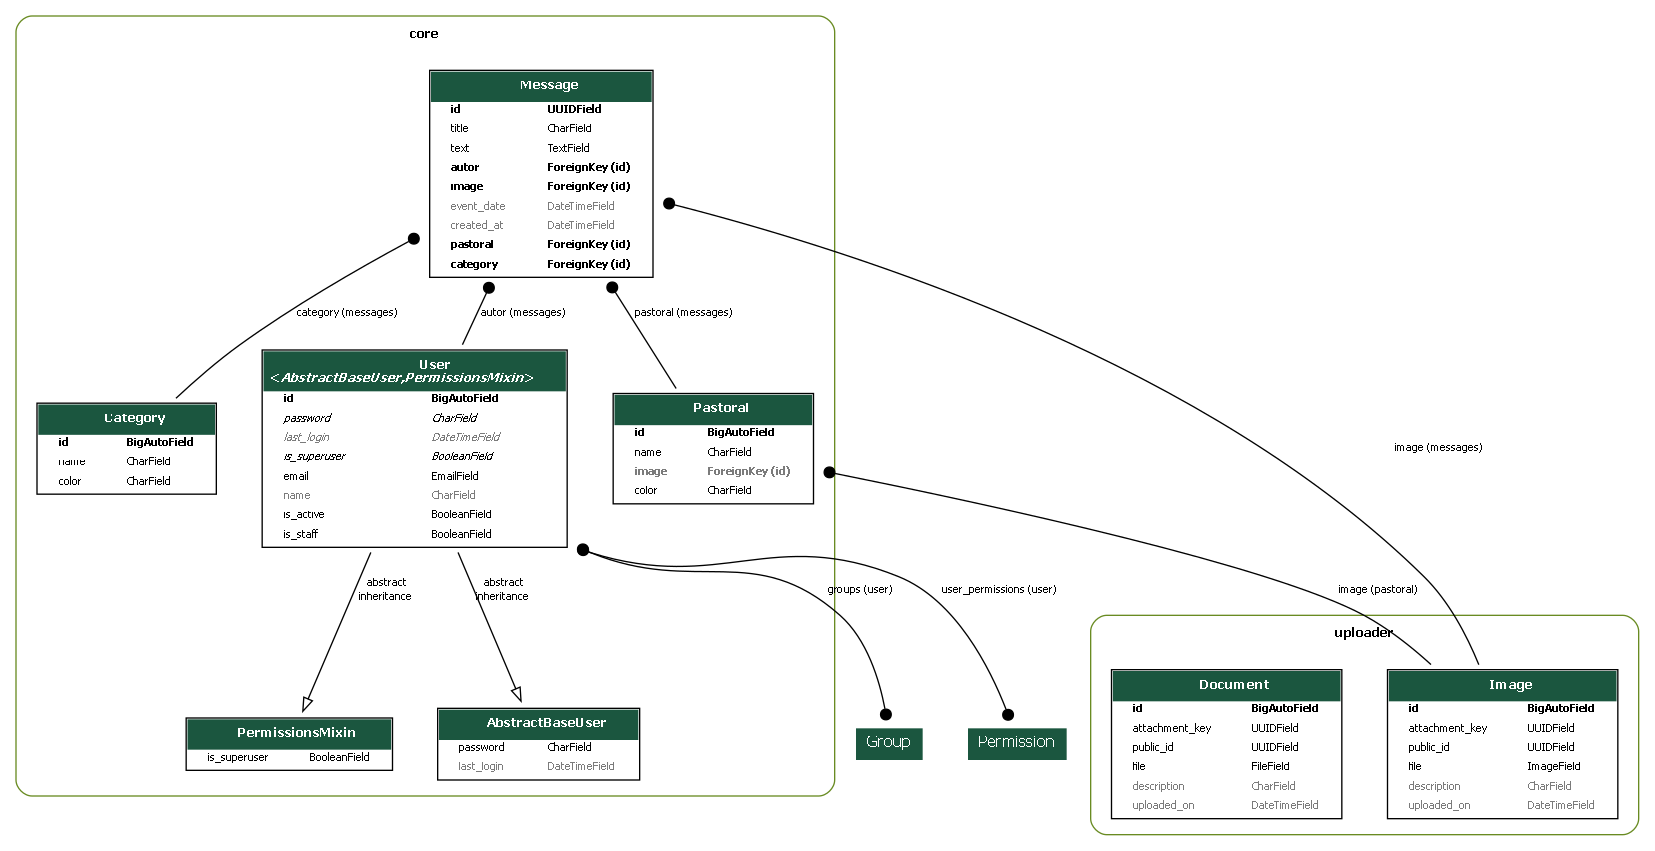
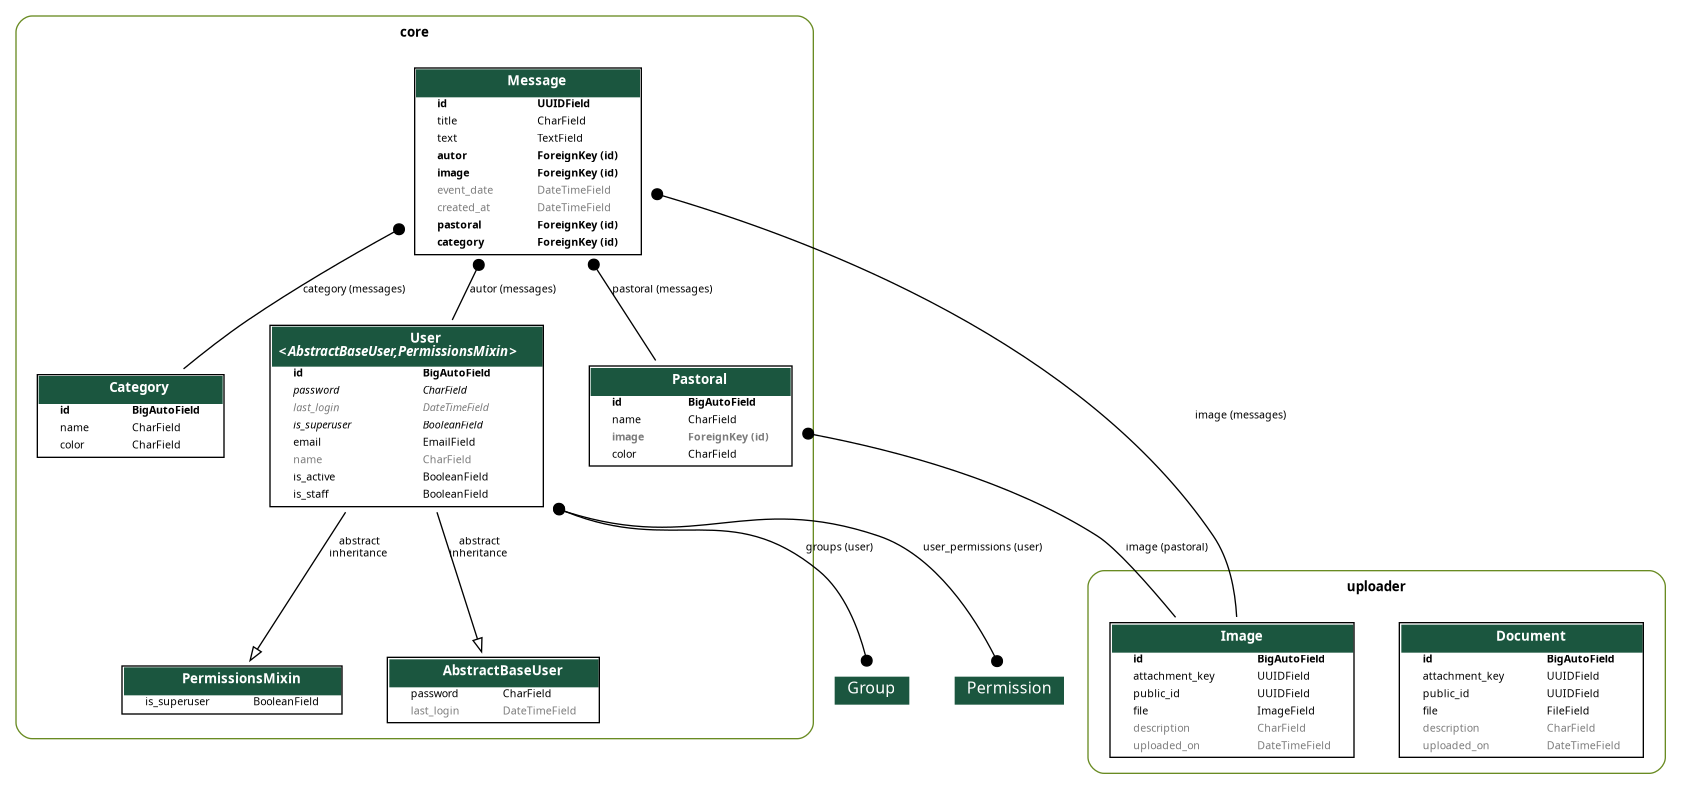
FEAT: Creation of the api's of category, pastoral, message

diff --git a/uploader/views.py b/uploader/views.py
@@ -1,7 +1,7 @@
-from rest_framework import mixins, parsers, viewsets
+from rest_framework import mixins, parsers, permissions, viewsets
 
 from uploader.models import Document, Image
-from uploader.serializers import DocumentUploadSerializer, ImageUploadSerializer
+from uploader.serializers import DocumentUploadSerializer, ImageSerializer, ImageUploadSerializer
 
 
 class CreateViewSet(mixins.ListModelMixin, mixins.CreateModelMixin, viewsets.GenericViewSet):
@@ -9,12 +9,18 @@ class CreateViewSet(mixins.ListModelMixin, mixins.CreateModelMixin, viewsets.Gen
 
 
 class DocumentUploadViewSet(CreateViewSet):
-    queryset = Document.objects.all() #  pylint: disable=no-member
+    queryset = Document.objects.all()  #  pylint: disable=no-member
     serializer_class = DocumentUploadSerializer
     parser_classes = [parsers.FormParser, parsers.MultiPartParser]
 
 
-class ImageUploadViewSet(CreateViewSet):
-    queryset = Image.objects.all() #  pylint: disable=no-member
+class ImageUploadViewSet(mixins.RetrieveModelMixin, CreateViewSet):
+    queryset = Image.objects.all()  #  pylint: disable=no-member
     serializer_class = ImageUploadSerializer
     parser_classes = [parsers.FormParser, parsers.MultiPartParser]
+    permission_classes = [permissions.IsAuthenticatedOrReadOnly]
+
+    def get_serializer_class(self):
+        if self.action == 'retrieve':
+            return ImageSerializer
+        return super().get_serializer_class()

diff --git a/uploader/serializers/image.py b/uploader/serializers/image.py
@@ -7,22 +7,22 @@ from uploader.models import Image
 class ImageUploadSerializer(serializers.ModelSerializer):
     class Meta:
         model = Image
-        fields = ["attachment_key", "file", "description", "uploaded_on", "url"]
-        read_only_fields = ["attachment_key", "uploaded_on", "url"]
-        extra_kwargs = {"file": {"write_only": True}}
+        fields = ['attachment_key', 'file', 'description', 'uploaded_on', 'url']
+        read_only_fields = ['attachment_key', 'uploaded_on', 'url']
+        extra_kwargs = {'file': {'write_only': True}}
 
     def validate_file(self, value):
         valid_content_types = [CONTENT_TYPE_JPG, CONTENT_TYPE_PNG]
         if value.content_type not in valid_content_types:
-            raise serializers.ValidationError("Invalid or corrupted image.")
+            raise serializers.ValidationError('Invalid or corrupted image.')
         return value
 
 
 class ImageSerializer(serializers.ModelSerializer):
     class Meta:
         model = Image
-        fields = ["url", "description", "uploaded_on"]
-        read_only_fields = ["url", "attachment_key", "uploaded_on"]
+        fields = ['attachment_key', 'url']
+        read_only_fields = ['attachment_key', 'url']
 
     def create(self, validated_data):
-        raise NotImplementedError("Use ImageUploadSerializer to create images.")
+        raise NotImplementedError('Use ImageUploadSerializer to create images.')

diff --git a/core/serializers/message.py b/core/serializers/message.py
@@ -1,0 +1,31 @@
+from rest_framework import serializers
+
+from core.models import Message
+from uploader.models.image import Image
+from uploader.serializers.image import ImageSerializer
+
+
+class MessageSerializer(serializers.ModelSerializer):
+    image = ImageSerializer(read_only=True)
+    attachment_key = serializers.SlugRelatedField(
+            source='image',
+            slug_field='attachment_key',
+            queryset=Image.objects.all(),
+            required=False,
+            allow_null=True,
+            write_only=True,
+    )
+    autor = serializers.HiddenField(default=serializers.CurrentUserDefault())
+    class Meta:
+        model = Message
+        fields = ['id', 'title', 'text', 'autor', 'image', 'event_date', 'created_at', 'pastoral', 'category', 'attachment_key']
+        read_only_fields = ['id', 'created_at']
+
+
+class MessageListRetrieveSerializer(serializers.ModelSerializer):
+    image = ImageSerializer(read_only=True)
+
+    class Meta:
+        model = Message
+        fields = ['id', 'title', 'text', 'image', 'event_date', 'created_at', 'pastoral', 'category']
+        read_only_fields = ['id', 'created_at']

diff --git a/core/serializers/pastoral.py b/core/serializers/pastoral.py
@@ -1,0 +1,30 @@
+from rest_framework import serializers
+
+from core.models import Pastoral
+from uploader.models import Image
+from uploader.serializers.image import ImageSerializer
+
+
+class PastoralSerializer(serializers.ModelSerializer):
+    image = ImageSerializer(read_only=True)
+    attachment_key = serializers.SlugRelatedField(
+        source='image',
+        slug_field='attachment_key',
+        queryset=Image.objects.all(),
+        required=False,
+        allow_null=True,
+        write_only=True,
+    )
+
+    class Meta:
+        model = Pastoral
+        fields = ['id', 'name', 'image', 'color', 'attachment_key']
+        read_only_fields = ['image']
+
+
+class PastoralListRetrieveSerializer(serializers.ModelSerializer):
+    image = ImageSerializer(read_only=True)
+
+    class Meta:
+        model = Pastoral
+        fields = ['id', 'name', 'image', 'color']

diff --git a/app/urls.py b/app/urls.py
@@ -10,9 +10,12 @@ from drf_spectacular.views import (
 from rest_framework.routers import DefaultRouter
 
 from core.views import (
+    CategoryViewSet,
     CustomTokenObtainPairView,
     CustomTokenRefreshView,
     CustomTokenVerifyView,
+    MessageViewSet,
+    PastoralViewSet,
     UserRegistrationView,
     UserViewSet,
 )
@@ -20,6 +23,9 @@ from uploader.router import router as uploader_router
 
 router = DefaultRouter()
 
+router.register(r'categorias', CategoryViewSet, basename='categorias')
+router.register(r'pastorais', PastoralViewSet, basename='pastorais')
+router.register(r'recados', MessageViewSet, basename='recados')
 router.register(r'usuarios', UserViewSet, basename='usuarios')
 
 urlpatterns = [

diff --git a/core/views/pastoral.py b/core/views/pastoral.py
@@ -1,0 +1,17 @@
+from rest_framework.permissions import IsAuthenticated
+from rest_framework.viewsets import ModelViewSet
+
+from core.models import Pastoral
+from core.serializers import PastoralListRetrieveSerializer, PastoralSerializer
+
+
+class PastoralViewSet(ModelViewSet):
+    queryset = Pastoral.objects.all().order_by('id')
+    serializer_class = PastoralSerializer
+    permission_classes = [IsAuthenticated]
+    http_method_names = ['get', 'post', 'put', 'delete']
+
+    def get_serializer_class(self):
+        if self.action in {'list', 'retrieve'}:
+            return PastoralListRetrieveSerializer
+        return super().get_serializer_class()

diff --git a/core/views/message.py b/core/views/message.py
@@ -1,0 +1,15 @@
+from rest_framework.permissions import IsAuthenticatedOrReadOnly
+from rest_framework.viewsets import ModelViewSet
+
+from core.models import Message
+from core.serializers import MessageListRetrieveSerializer, MessageSerializer
+
+
+class MessageViewSet(ModelViewSet):
+    queryset = Message.objects.all()
+    permission_classes = [IsAuthenticatedOrReadOnly]
+
+    def get_serializer_class(self):
+        if self.action in {'list', 'retrieve'}:
+            return MessageListRetrieveSerializer
+        return MessageSerializer

diff --git a/core/views/Category.py b/core/views/Category.py
@@ -1,0 +1,13 @@
+from rest_framework.permissions import IsAuthenticated
+from rest_framework.viewsets import ModelViewSet
+
+from core.models import Category
+from core.serializers import CategorySerializer
+
+
+class CategoryViewSet(ModelViewSet):
+
+    queryset = Category.objects.all().order_by('id')
+    serializer_class = CategorySerializer
+    permission_classes = [IsAuthenticated]
+    http_method_names = ['get', 'post', 'put', 'delete']

diff --git a/core/views/user.py b/core/views/user.py
@@ -14,6 +14,7 @@ class UserViewSet(ModelViewSet):
     queryset = User.objects.all().order_by('id')
     serializer_class = UserSerializer
     permission_classes = [IsAuthenticated]
+    http_method_names = ['get', 'delete']
 
     @extend_schema(
         summary="Dados do usuário autenticado",

diff --git a/core/views/__init__.py b/core/views/__init__.py
@@ -1,2 +1,5 @@
+from .Category import CategoryViewSet
+from .pastoral import PastoralViewSet
+from .message import MessageViewSet
 from .token import CustomTokenObtainPairView, CustomTokenRefreshView, CustomTokenVerifyView
 from .user import UserRegistrationView, UserViewSet

diff --git a/core/serializers/__init__.py b/core/serializers/__init__.py
@@ -1,1 +1,4 @@
+from .Category import CategorySerializer
+from .message import MessageSerializer, MessageListRetrieveSerializer
+from .pastoral import PastoralSerializer, PastoralListRetrieveSerializer
 from .user import UserRegistrationSerializer, UserSerializer

diff --git a/core/serializers/Category.py b/core/serializers/Category.py
@@ -1,0 +1,9 @@
+from rest_framework import serializers
+
+from core.models import Category
+
+
+class CategorySerializer(serializers.ModelSerializer):
+    class Meta:
+        model = Category
+        fields = '__all__'
